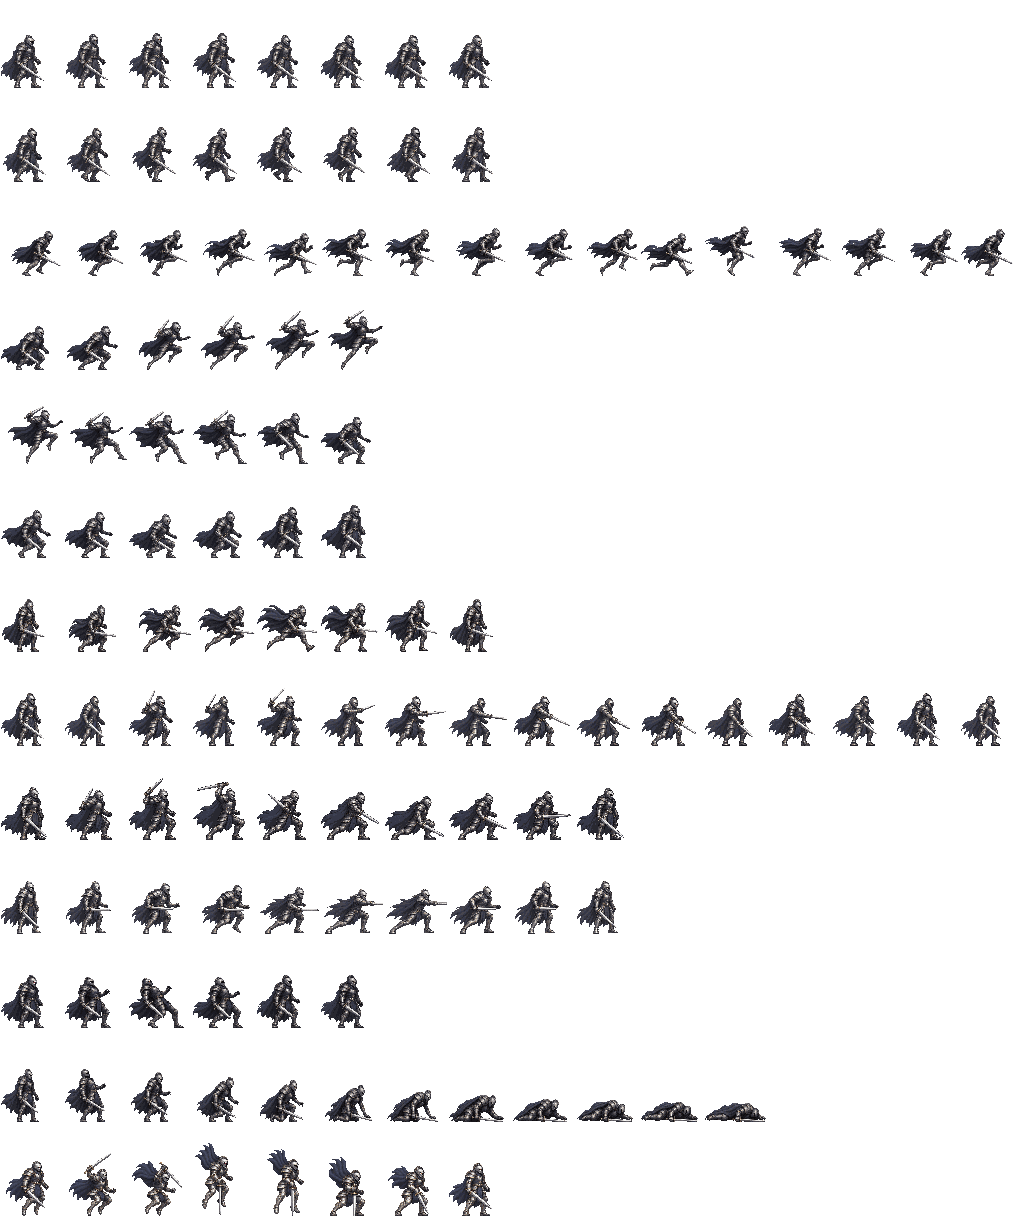
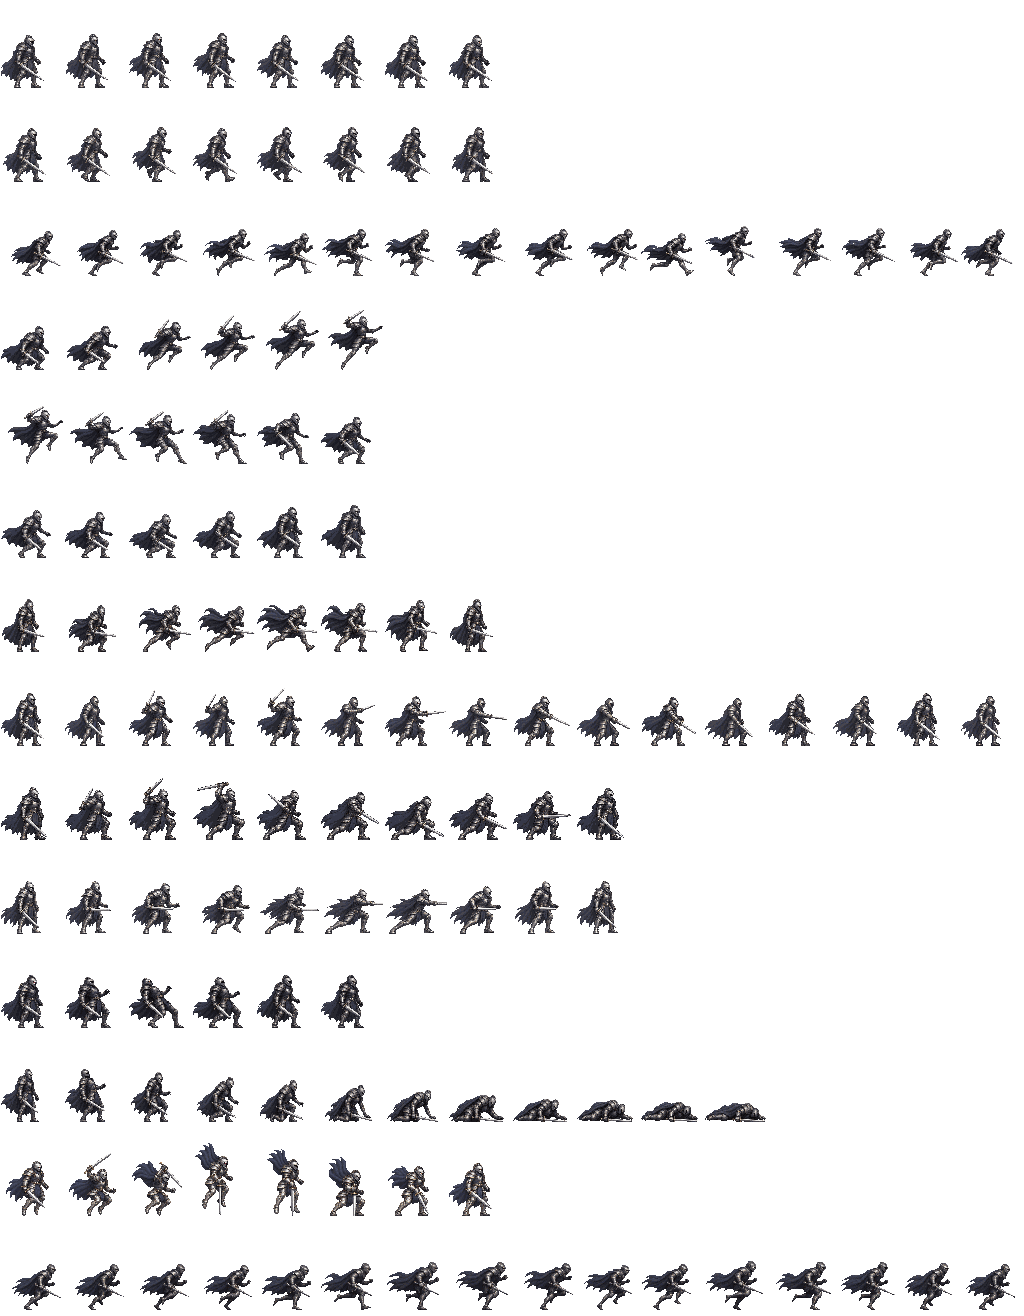
Add 16 interleaved knight sprint poses

Changed region(s): [[0.0, 0.0933, 1.0, 0.9951], [0.0, 0.0311, 0.5, 0.0622]]

diff --git a/Tools/bake_knight_motion.py b/Tools/bake_knight_motion.py
@@ -139,7 +139,7 @@ def bake_trails(metadata):
 def bake():
     source=Image.open(MASTER)
     if source.mode!='P':raise ValueError('Master must use the approved indexed pixel palette')
-    if source.size!=(1024,1222):raise ValueError('Master must be 16x13 cells of 64x94')
+    if source.size!=(1024,1316):raise ValueError('Master must be 16x14 cells of 64x94')
     atlas=Image.new('P',source.size,source.getpixel((0,0)));atlas.putpalette(source.getpalette('RGBA'),rawmode='RGBA');atlas.info['transparency']=source.getpixel((0,0));metadata=[]
     review=ROOT/'native-engine/review';review.mkdir(parents=True,exist_ok=True)
     for name,start,count,duration,source_count in CLIPS:
@@ -150,11 +150,21 @@ def bake():
             if not cell.convert('RGBA').getchannel('A').getbbox():raise ValueError((name,index,'empty source'))
             atlas.paste(cell,(i*64,row*94));frames.append(cell.convert('RGBA'));indices.append(index)
         metadata.append(dict(name=name,start=start,count=count,duration=duration,loop=loop,source_count=source_count,source_indices=indices))
+        if name=='run':
+            midpoint_row=13*94
+            midpoints=[source.crop((i*64,midpoint_row,(i+1)*64,midpoint_row+94))
+                       for i in range(count)]
+            for i,cell in enumerate(midpoints):
+                if not cell.convert('RGBA').getchannel('A').getbbox():
+                    raise ValueError(('run midpoint',i,'empty source'))
+                atlas.paste(cell,(i*64,midpoint_row))
+            frames=[frame for pair in zip(frames,map(lambda cell:cell.convert('RGBA'),midpoints))
+                    for frame in pair]
         previews=[]
         for frame in frames:
             bg=Image.new('RGBA',(64,94),(20,26,35,255));bg.alpha_composite(frame)
             previews.append(bg.convert('RGB').resize((256,376),Image.Resampling.NEAREST))
-        previews[0].save(review/(name+'.gif'),save_all=True,append_images=previews[1:],duration=max(10,round(duration/count*1000)),loop=0)
+        previews[0].save(review/(name+'.gif'),save_all=True,append_images=previews[1:],duration=max(10,round(duration/len(previews)*1000)),loop=0)
     OUT.parent.mkdir(parents=True,exist_ok=True);atlas.save(OUT)
     (ROOT/'Art/knight/rig/clips.json').write_text(json.dumps(metadata,indent=2)+'\n')
     (review/'motion.json').write_text(json.dumps(metadata,indent=2)+'\n')
@@ -164,6 +174,6 @@ def bake():
     digest=lambda p:hashlib.sha256(p.read_bytes()).hexdigest()
     stamp={'inputs':{str(p.relative_to(ROOT)):digest(p) for p in inputs},'outputs':{str(p.relative_to(ROOT)):digest(p) for p in outputs}}
     (ROOT/'Art/knight/rig/build.json').write_text(json.dumps(stamp,indent=2)+'\n')
-    print('Packed 120 playable frames from 120 authored PNG poses; 64x94 cells; 1024x1222 atlas.')
+    print('Packed 120 base frames and 16 run midpoints; 64x94 cells; 1024x1316 atlas.')
 if __name__=='__main__':bake()
 

diff --git a/native-engine/tools/check_motion.py b/native-engine/tools/check_motion.py
@@ -10,7 +10,7 @@ for section in stamp.values():
         assert hashlib.sha256((ROOT/name).read_bytes()).hexdigest()==digest,('Repack motion after changing',name)
 im=Image.open(ROOT/'Assets/Resources/Eclipse/knight_motion.png').convert('RGBA')
 master=Image.open(ROOT/'Art/knight/redesign/knight_64x94_master.png').convert('RGBA')
-assert im.size==(1024,1222)
+assert im.size==(1024,1316)
 assert set(im.getchannel('A').get_flattened_data())=={0,255},'Alpha must be binary'
 clips=json.loads((ROOT/'Art/knight/rig/clips.json').read_text())
 assert [c['count'] for c in clips]==[8,8,16,6,6,6,8,16,10,10,6,12,8]
@@ -29,7 +29,7 @@ for i in range(208):
     if i not in occupied:
         assert not im.crop((i%16*64,i//16*94,(i%16+1)*64,(i//16+1)*94)).getchannel('A').getbbox(),('unused cell',i)
 header=(ROOT/'native-engine/src/motion.hpp').read_text()
-for key,value in [('motionWidth',64),('motionHeight',94),('motionColumns',16),('motionRows',13),('motionPivotX',28),('motionPivotY',88)]:
+for key,value in [('motionWidth',64),('motionHeight',94),('motionColumns',16),('motionRows',14),('motionPivotX',28),('motionPivotY',88)]:
     assert re.search(r'\b'+key+r'\s*=\s*'+str(value)+r'\b',header),key
 assert len(occupied)==120 and len(unique)==120
 assert all(c['source_count']==c['count'] for c in clips),'Every motion must retain authored detail at every runtime frame'
@@ -37,7 +37,16 @@ assert len({p for p in im.get_flattened_data() if p[3]})<=95,'Motions must share
 for start in (0,16,96,112,128,144,160,176):
     box=im.crop((0,start//16*94,64,(start//16+1)*94)).getchannel('A').getbbox()
     assert 50<=box[3]-box[1]<=56,('Inconsistent ready-pose body height',start)
-results=dict(atlas_pixels=list(im.size),cell_pixels=[64,94],clips=13,frames=len(occupied),unique_poses=len(unique),alpha=[0,255],pivot=[28,88],world_scale=1.85,source='120 authored PNG poses; shared 96-color palette and ready-pose scale')
+for i in range(16):
+    box=(i*64,1222,(i+1)*64,1316)
+    cell=im.crop(box)
+    assert cell.tobytes()==master.crop(box).tobytes(),('run midpoint',i,'packing mismatch')
+    bounds=cell.getchannel('A').getbbox()
+    assert bounds and bounds[0]>=1 and bounds[2]<=63 and bounds[3]<=89,('run midpoint',i,'invalid silhouette')
+    occupied.add(208+i)
+    unique.add(cell.tobytes())
+assert len(unique)==136
+results=dict(atlas_pixels=list(im.size),cell_pixels=[64,94],clips=13,frames=len(occupied),unique_poses=len(unique),alpha=[0,255],pivot=[28,88],world_scale=1.85,source='120 base PNG poses and 16 run midpoints; shared 96-color palette and ready-pose scale')
 # Blade annotations are checked against the ACTUAL steel pixels, not a retired rig.
 import importlib.util,math
 spec=importlib.util.spec_from_file_location('knight_bake',ROOT/'Tools/bake_knight_motion.py')

diff --git a/native-engine/src/motion.hpp b/native-engine/src/motion.hpp
@@ -23,7 +23,8 @@ constexpr MotionClip motionClips[]={
     {212,4,.415f,.50f,0.f},  // sweep contact matches the downswing
     {216,4,.40f,.50f,0.f},  // raise the sword, brace, recover
 };
-constexpr int motionWidth=64,motionHeight=94,motionColumns=16,motionRows=13,motionPivotX=28,motionPivotY=88;
+constexpr int motionWidth=64,motionHeight=94,motionColumns=16,motionRows=14,motionPivotX=28,motionPivotY=88;
+constexpr int knightRunMidpointStart=13*motionColumns;
 constexpr float motionScale=1.85f;
 constexpr int mageMotionColumns=8,mageMotionRows=10,mageGroundCastRow=8,mageAirCastRow=9;
 constexpr int mageCastTipX=55,mageCastTipY=50;

diff --git a/native-engine/src/presentation.hpp b/native-engine/src/presentation.hpp
@@ -1179,6 +1179,11 @@ public:
                 frame=row*columns+index;
             }
         }
+        if(p.form==0&&a.state==1){
+            const float phase=a.travelPhase*motionClips[1].count;
+            const int subframe=static_cast<int>(phase*2);
+            if(subframe%2==1)frame=knightRunMidpointStart+subframe/2;
+        }
         afterimages(g,a,actorTexture,frame,columns);
         if(actorTexture){
             SDL_FRect source{static_cast<float>(frame%columns*width),static_cast<float>(frame/columns*motionHeight),static_cast<float>(width),motionHeight};
